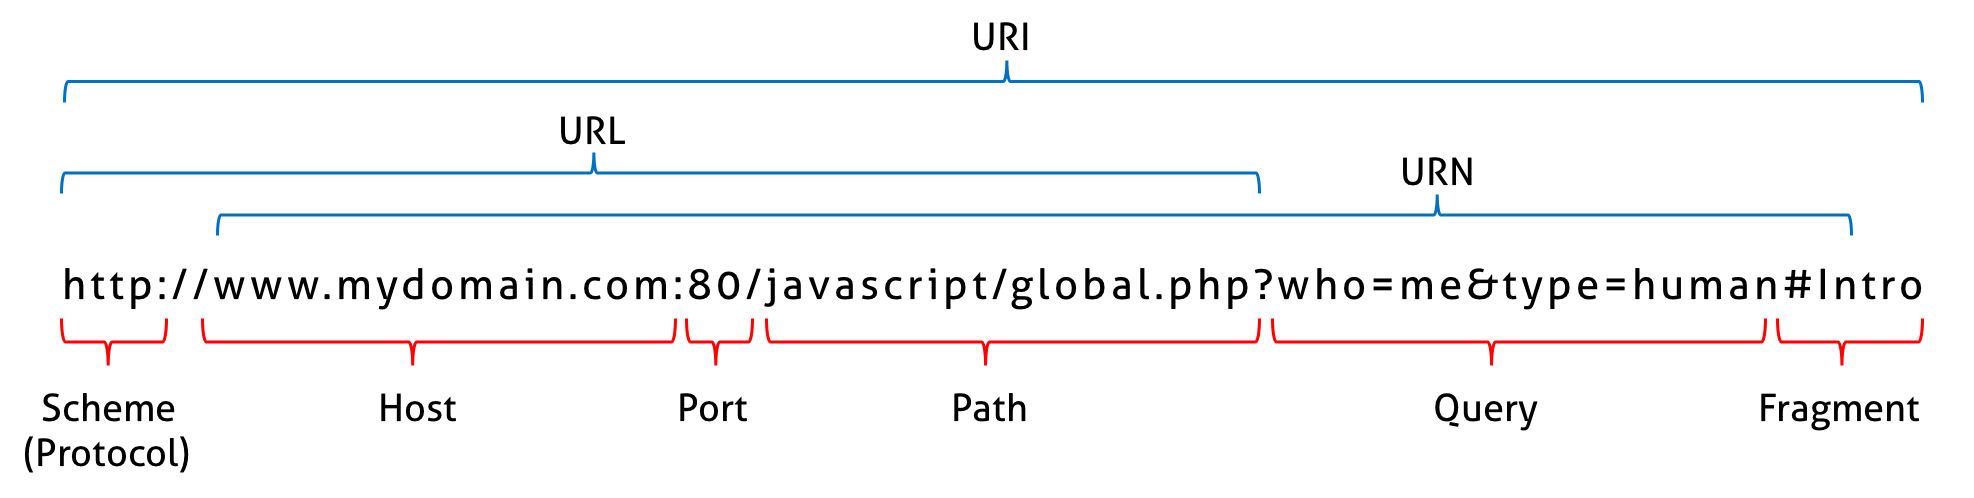
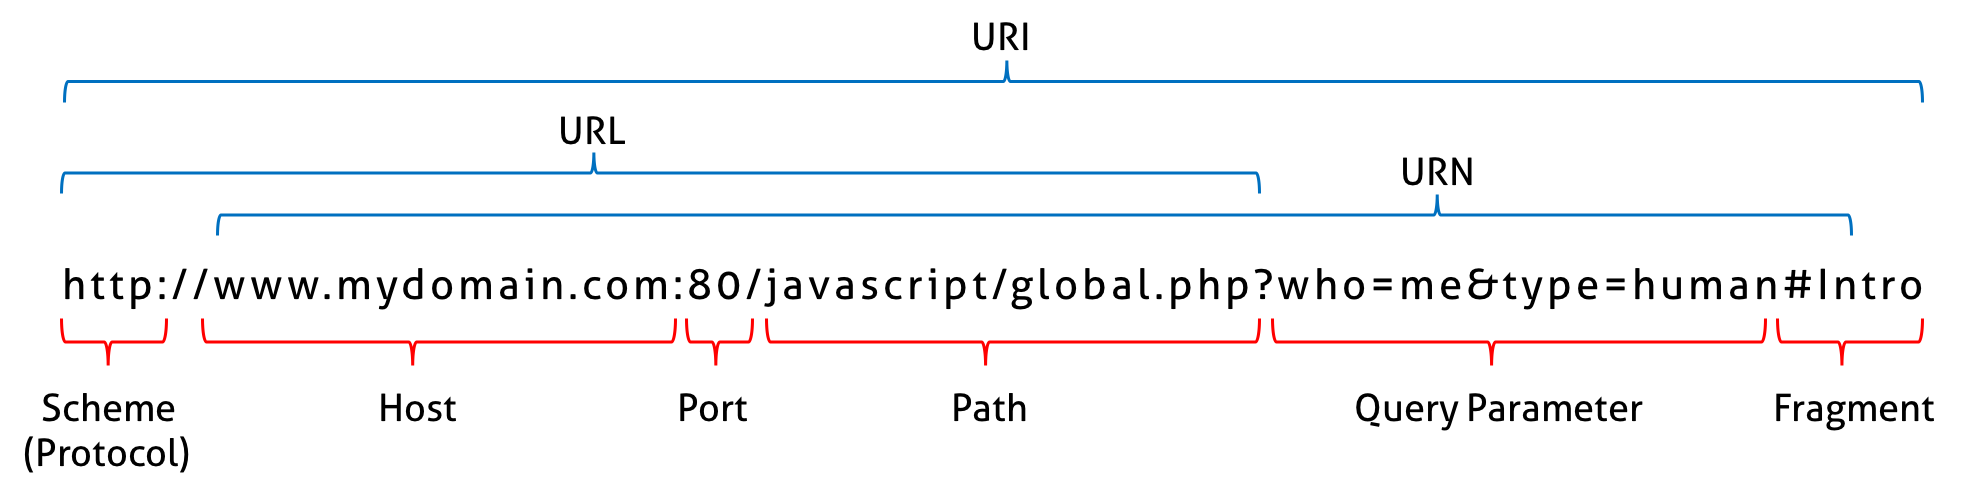
update

Changed region(s): [[0.6798, 0.7831, 0.8343, 0.8735], [0.8961, 0.7831, 0.9889, 0.8735]]

diff --git a/_posts/2017-01-17-angular-http.md b/_posts/2017-01-17-angular-http.md
@@ -99,9 +99,21 @@ xhr.open('GET', 'api/todos');
 xhr.send();
 ```
 
-Angular의 HttpClient도 XMLHttpRequest를 사용하기 때문에 GET, POST, PUT, DELETE, PATCH 등의 HTTP 메소드(verb, method)를 사용하여 CRUD를 구현한다.
+Angular의 HttpClient도 XMLHttpRequest를 사용하여 HTTP 요청을 실행할 수 있는 API를 제공한다. HttpClient 클래스의 인스턴스는 의존성 주입을 통해 사용할 수 있다.
 
-[json-server](./json-server)를 사용하여 페이크 REST API 서버를 작성하고 HTTP 요청 예제를 만들어 보자. json-server는 npm을 사용하여 설치할 수 있다.
+```typescript
+// HttpClient를 주입받는다.
+constructor(public http: HttpClient) {}
+```
+
+주입받은 HttpClient 클래스의 인스턴스는 get, post, put, patch, delete, jsonp 등의 HTTP 메소드를 가지고 있으며 이들 메소드를 통해 CRUD를 구현한다.
+
+```typescript
+// HTTP GET 요청
+this.http.get('/api/todos').subscribe(...);
+```
+
+[json-server](./json-server)를 사용하여 페이크 REST API 서버를 생성하고 HTTP 요청 예제를 만들어 보자. json-server는 npm을 사용하여 설치할 수 있다.
 
 ```bash
 $ npm install -g json-server
@@ -187,7 +199,8 @@ class Todo {
     <ul>
       <li *ngFor="let todo of todos">{{ "{{ todo.content " }}}}</li>
     </ul>
-    <pre>{{ "{{ todos | json " }}}}</pre>`
+    <pre>{{ "{{ todos | json " }}}}</pre>
+  `
 })
 export class HttpGetComponent implements OnInit {
   todos: Todo[];
@@ -245,8 +258,8 @@ JSON 데이터가 아닌 텍스트, [blob](https://ko.wikipedia.org/wiki/%EB%B0%
 ngOnInit() {
   // HTTP 요청: 텍스트 파일을 요청
   this.http.get('/textfile.txt', {responseType: 'text'})
-  // get 메소드는 Observable<string>를 반환한다.
-  .subscribe(data => console.log(data));
+    // get 메소드는 Observable<string>를 반환한다.
+    .subscribe(data => console.log(data));
 }
 ```
 
@@ -254,7 +267,14 @@ responseType을 설정한 경우, 타입 파라미터를 지정할 필요가 없
 
 ### 3.1.3 HttpParams
 
-GET 요청은 쿼리 파라미터와 함께 전달할 수 있다. 예를 들어 위 예제의 url을 아래와 같이 변경하여 보자.
+GET 요청은 쿼리 파라미터와 함께 전달할 수 있다. 참고로 URI(Uniform Resource Identifier)는 아래와 같은 구성을 갖는다.
+
+![uri](/img/uri.png)
+
+URI(Uniform Resource Identifier)
+{: .desc-img}
+
+예를 들어 위 예제의 url을 아래와 같이 변경하여 보자.
 
 ```typescript
 url = 'http://localhost:3000/todos?id=1&completed=false';
@@ -276,7 +296,7 @@ ngOnInit() {
 }
 ```
 
-HttpParams 객체는 이뮤터블이기 때문에 객체의 값을 직접 변경할 수 없다. 따라서 set 메소드를 사용해서 값을 지정해야 한다. 주의해야 할 것은 set 메소드를 항상 새로운 HttpParams 객체를 반환하기 때문에 반드시 체이닝하여 사용해야 한다. 따라서 다음과 같이 사용하는 방식은 유효하지 않다.
+HttpParams 객체는 이뮤터블이기 때문에 객체의 프로퍼티 값을 직접 변경할 수 없다. 따라서 set 메소드를 사용해서 값을 지정해야 한다. 주의해야 할 것은 set 메소드를 항상 새로운 HttpParams 객체를 반환하기 때문에 반드시 체이닝하여 사용해야 한다. 따라서 다음과 같이 사용하는 방식은 유효하지 않다.
 
 ```typescript
 const params = new HttpParams();
